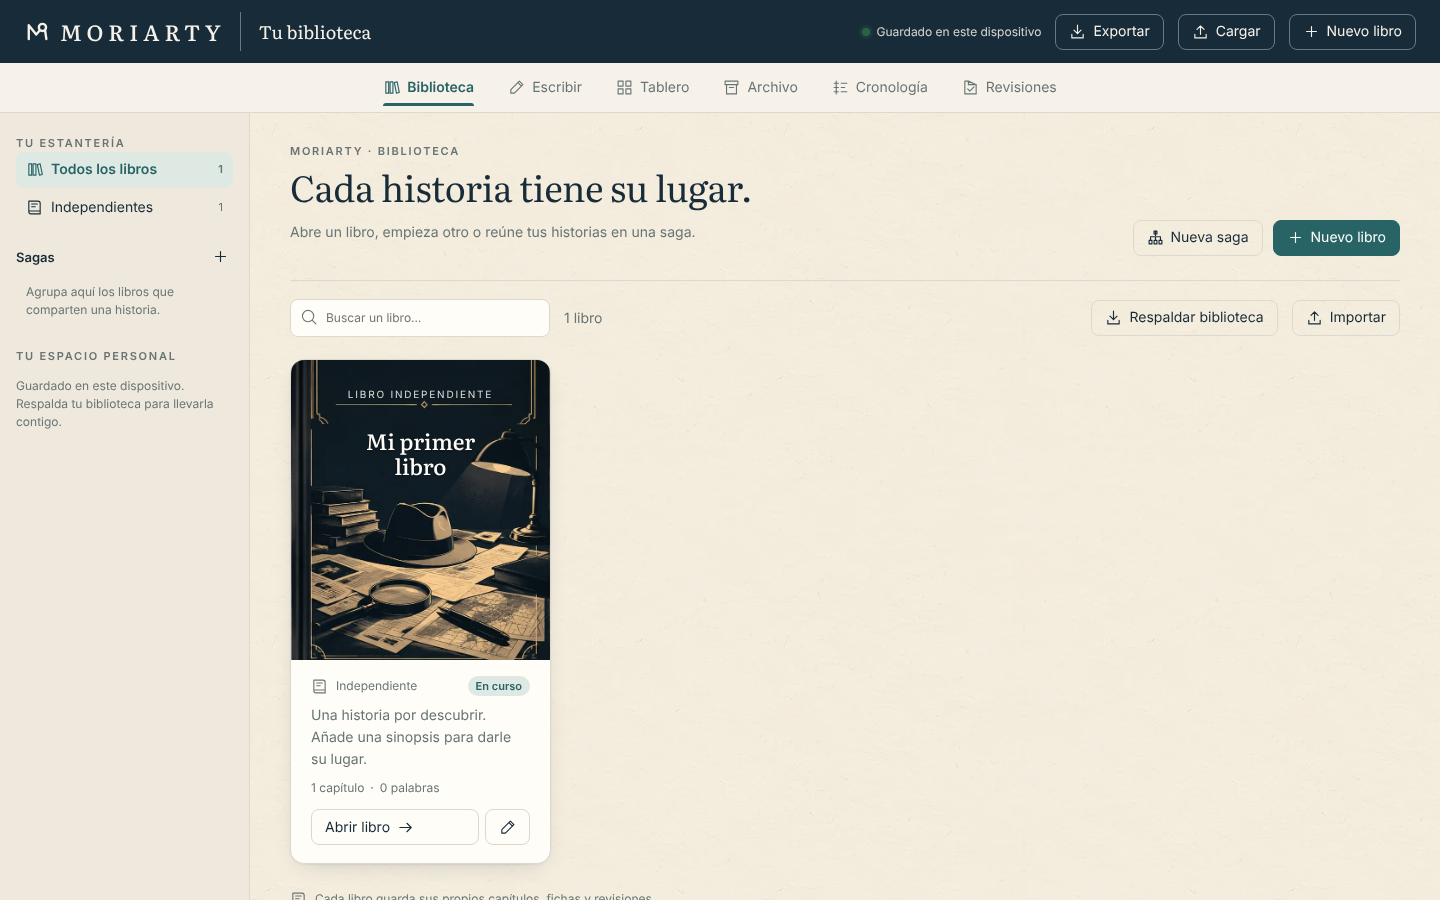
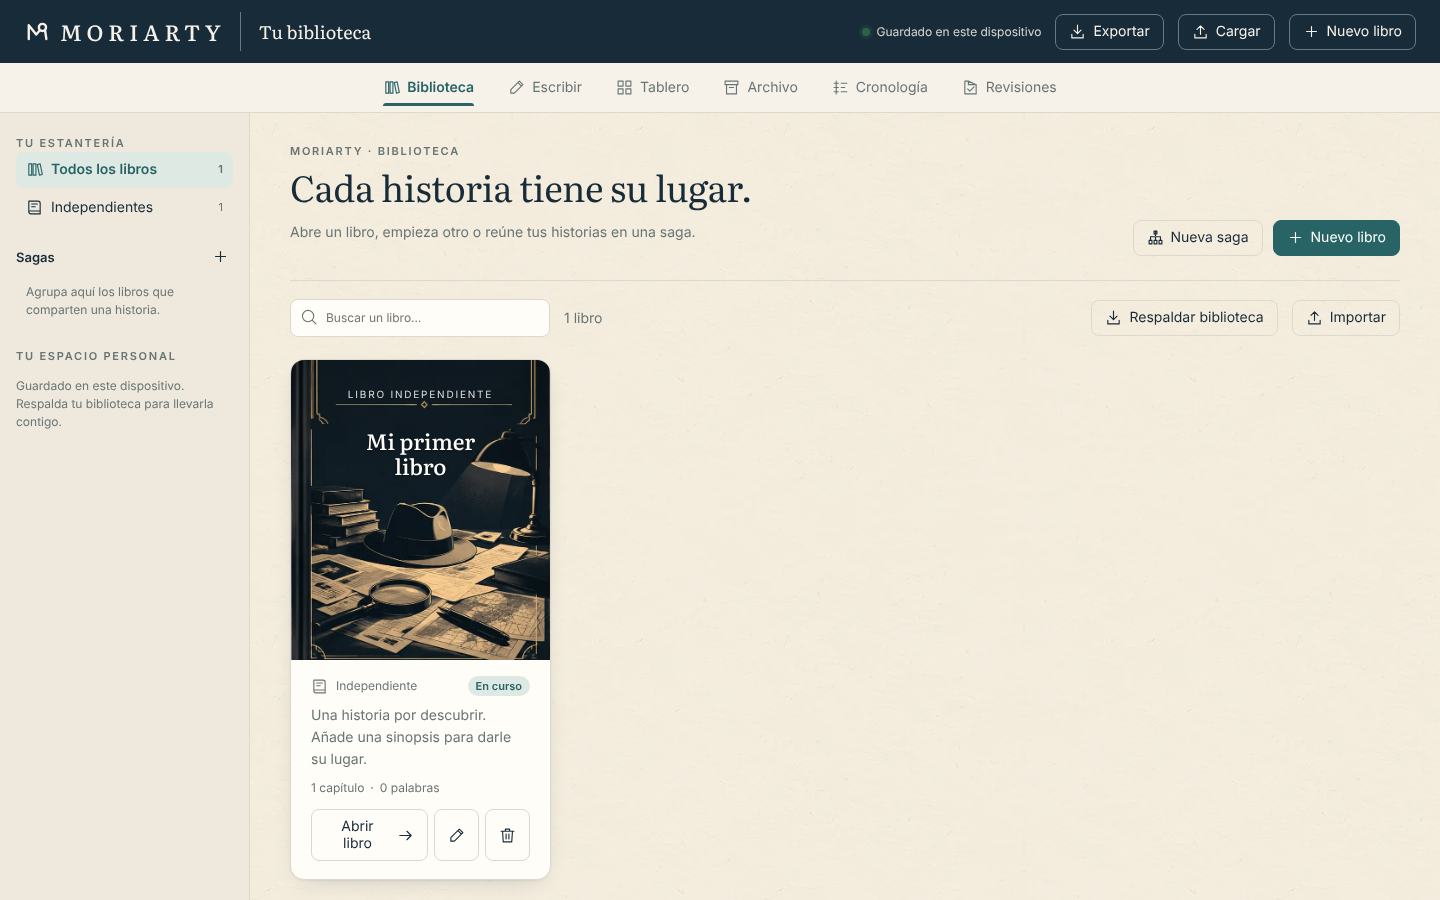
Biblioteca: papelera de libros (recuperar y eliminar definitivamente con confirmación)
Claude-Session: https://claude.ai/code/session_019irDhg9R3vBrL3R1LDZwQ2

Changed region(s): [[0.1875, 0.9022, 0.4688, 1.0]]

diff --git a/dist/library-view.js b/dist/library-view.js
@@ -1,4 +1,4 @@
-import {addBook, addSaga, moveBook} from './library.js';
+import {addBook, addSaga, moveBook, trashBook, restoreBook, purgeBook, liveBooks} from './library.js';
 import {icon, art, COVERS} from './icons.js';
 const esc = (x) =>
   String(x).replace(
@@ -24,12 +24,15 @@ export class LibraryView {
   }
   render() {
     const lib = this.getLibrary();
-    if (!['all', 'independent'].includes(this.scope) && !lib.sagas.some((s) => s.id === this.scope))
+    const live = liveBooks(lib),
+      trashed = lib.books.filter((b) => b.trashed);
+    if (this.scope === 'trash' && !trashed.length) this.scope = 'all';
+    if (!['all', 'independent', 'trash'].includes(this.scope) && !lib.sagas.some((s) => s.id === this.scope))
       this.scope = 'all';
     const sidebar = document.querySelector('#sidebar');
     const scopeButton = (id, name, type, count) =>
       `<button data-scope="${esc(id)}" class="library-filter ${this.scope === id ? 'selected' : ''}">${icon(type)}<span>${esc(name)}</span><small>${count}</small></button>`;
-    sidebar.innerHTML = `<div class="eyebrow">TU ESTANTERÍA</div>${scopeButton('all', 'Todos los libros', 'library', lib.books.length)}${scopeButton('independent', 'Independientes', 'book', lib.books.filter((b) => !b.sagaId).length)}<div class="saga-heading"><h3>Sagas</h3><button id="sidebarNewSaga" aria-label="Crear saga" title="Crear saga">${icon('plus')}</button></div><div class="saga-filters">${lib.sagas.map((s) => scopeButton(s.id, s.title, 'saga', lib.books.filter((b) => b.sagaId === s.id).length)).join('') || '<p class="muted library-hint">Agrupa aquí los libros que comparten una historia.</p>'}</div><div class="library-storage"><span class="eyebrow">TU ESPACIO PERSONAL</span><p>Guardado en este dispositivo. Respalda tu biblioteca para llevarla contigo.</p></div>`;
+    sidebar.innerHTML = `<div class="eyebrow">TU ESTANTERÍA</div>${scopeButton('all', 'Todos los libros', 'library', live.length)}${scopeButton('independent', 'Independientes', 'book', live.filter((b) => !b.sagaId).length)}<div class="saga-heading"><h3>Sagas</h3><button id="sidebarNewSaga" aria-label="Crear saga" title="Crear saga">${icon('plus')}</button></div><div class="saga-filters">${lib.sagas.map((s) => scopeButton(s.id, s.title, 'saga', live.filter((b) => b.sagaId === s.id).length)).join('') || '<p class="muted library-hint">Agrupa aquí los libros que comparten una historia.</p>'}</div>${trashed.length ? `<div class="saga-heading"><h3>Papelera</h3></div>${scopeButton('trash', 'Libros en papelera', 'trash', trashed.length)}` : ''}<div class="library-storage"><span class="eyebrow">TU ESPACIO PERSONAL</span><p>Guardado en este dispositivo. Respalda tu biblioteca para llevarla contigo.</p></div>`;
     sidebar.querySelectorAll('[data-scope]').forEach(
       (btn) =>
         (btn.onclick = () => {
@@ -42,10 +45,12 @@ export class LibraryView {
     const saga = lib.sagas.find((s) => s.id === this.scope);
     const heading =
       saga?.title ||
-      (this.scope === 'independent' ? 'Historias con su propio mundo.' : 'Cada historia tiene su lugar.');
+      (this.scope === 'trash' ? 'Papelera de libros.' : this.scope === 'independent' ? 'Historias con su propio mundo.' : 'Cada historia tiene su lugar.');
     const description =
       saga?.description ||
-      (this.scope === 'independent'
+      (this.scope === 'trash'
+        ? 'Nada aquí se ha borrado. Recupera un libro o elimínalo definitivamente.'
+        : this.scope === 'independent'
         ? 'Tus libros independientes, listos para seguir creciendo.'
         : 'Abre un libro, empieza otro o reúne tus historias en una saga.');
     document.querySelector('#main').innerHTML =
@@ -65,8 +70,12 @@ export class LibraryView {
   }
   cards() {
     const lib = this.getLibrary();
-    const scoped = lib.books.filter(
-      (b) => this.scope === 'all' || (this.scope === 'independent' ? !b.sagaId : b.sagaId === this.scope),
+    const inTrash = this.scope === 'trash';
+    const scoped = lib.books.filter((b) =>
+      inTrash
+        ? b.trashed
+        : !b.trashed &&
+          (this.scope === 'all' || (this.scope === 'independent' ? !b.sagaId : b.sagaId === this.scope)),
     );
     const query = this.query.trim().toLocaleLowerCase();
     const books = scoped.filter((b) =>
@@ -78,15 +87,15 @@ export class LibraryView {
       books
         .map((b) => {
           const saga = lib.sagas.find((s) => s.id === b.sagaId),
-            siblings = lib.books.filter((x) => x.sagaId === b.sagaId),
+            siblings = lib.books.filter((x) => x.sagaId === b.sagaId && !x.trashed),
             index = siblings.indexOf(b),
             id = esc(b.project.id);
           const color = (saga ? lib.sagas.indexOf(saga) : lib.books.indexOf(b)) % 3;
           const coverUrl = b.project.cover || `img/${COVERS[color]}.webp`;
-          return `<article class="book-card" data-book="${id}"><button data-open-book="${id}" aria-label="Abrir ${esc(b.project.title)}" style="background-image:url(${coverUrl})" class="book-cover ${b.project.cover ? 'cover-custom' : 'cover-default'}"><span class="cover-kicker">${saga ? esc(saga.title) : 'LIBRO INDEPENDIENTE'}</span><span></span><span class="cover-title">${esc(b.project.title) || 'Libro sin título'}</span><span class="cover-bottom">${saga ? `VOLUMEN ${String(index + 1).padStart(2, '0')}` : 'MORIARTY'}</span></button><div class="book-info"><div class="book-meta">${saga ? `${icon('saga')}<span>${esc(saga.title)} · ${index + 1}</span>` : `${icon('book')}<span>Independiente</span>`}${lib.activeBookId === b.project.id ? '<span class="current-book">En curso</span>' : ''}</div><p class="book-synopsis ${b.synopsis ? '' : 'muted'}">${esc(b.synopsis) || 'Una historia por descubrir. Añade una sinopsis para darle su lugar.'}</p><div class="book-stats">${plural(b.project.chapters.filter((c) => !c.trashed).length, 'capítulo', 'capítulos')}<span>·</span>${words(b.project).toLocaleString('es-MX')} palabras</div><div class="book-actions"><button class="open-book" data-open-book="${id}">Abrir libro ${icon('arrow')}</button><button data-edit-book="${id}" aria-label="Editar ${esc(b.project.title)}" title="Editar libro">${icon('edit')}</button>${saga ? `<button data-book-move="${id}" data-delta="-1" ${index === 0 ? 'disabled' : ''} aria-label="Adelantar ${esc(b.project.title)} en la saga" title="Adelantar en saga">${icon('up')}</button><button data-book-move="${id}" data-delta="1" ${index === siblings.length - 1 ? 'disabled' : ''} aria-label="Retrasar ${esc(b.project.title)} en la saga" title="Retrasar en saga">${icon('down')}</button>` : ''}</div></div></article>`;
+          return `<article class="book-card" data-book="${id}"><button data-open-book="${id}" aria-label="Abrir ${esc(b.project.title)}" style="background-image:url(${coverUrl})" class="book-cover ${b.project.cover ? 'cover-custom' : 'cover-default'}"><span class="cover-kicker">${saga ? esc(saga.title) : 'LIBRO INDEPENDIENTE'}</span><span></span><span class="cover-title">${esc(b.project.title) || 'Libro sin título'}</span><span class="cover-bottom">${saga ? `VOLUMEN ${String(index + 1).padStart(2, '0')}` : 'MORIARTY'}</span></button><div class="book-info"><div class="book-meta">${saga ? `${icon('saga')}<span>${esc(saga.title)} · ${index + 1}</span>` : `${icon('book')}<span>Independiente</span>`}${lib.activeBookId === b.project.id ? '<span class="current-book">En curso</span>' : ''}</div><p class="book-synopsis ${b.synopsis ? '' : 'muted'}">${esc(b.synopsis) || 'Una historia por descubrir. Añade una sinopsis para darle su lugar.'}</p><div class="book-stats">${plural(b.project.chapters.filter((c) => !c.trashed).length, 'capítulo', 'capítulos')}<span>·</span>${words(b.project).toLocaleString('es-MX')} palabras</div><div class="book-actions">${inTrash ? `<button class="open-book" data-restore-book="${id}">${icon('restore')}Recuperar</button><button data-purge-book="${id}" class="danger-text" aria-label="Eliminar definitivamente ${esc(b.project.title)}" title="Eliminar definitivamente">${icon('trash')}</button>` : `<button class="open-book" data-open-book="${id}">Abrir libro ${icon('arrow')}</button><button data-edit-book="${id}" aria-label="Editar ${esc(b.project.title)}" title="Editar libro">${icon('edit')}</button><button data-trash-book="${id}" aria-label="Enviar ${esc(b.project.title)} a la papelera" title="Enviar a la papelera">${icon('trash')}</button>`}${saga && !inTrash ? `<button data-book-move="${id}" data-delta="-1" ${index === 0 ? 'disabled' : ''} aria-label="Adelantar ${esc(b.project.title)} en la saga" title="Adelantar en saga">${icon('up')}</button><button data-book-move="${id}" data-delta="1" ${index === siblings.length - 1 ? 'disabled' : ''} aria-label="Retrasar ${esc(b.project.title)} en la saga" title="Retrasar en saga">${icon('down')}</button>` : ''}</div></div></article>`;
         })
         .join('') ||
-      `<div class="library-empty">${art(query ? 'vacio-busqueda' : 'vacio-biblioteca')}<h2>${query ? 'No encontramos ese libro.' : 'Aquí empieza una nueva historia.'}</h2><p class="muted">${query ? 'Prueba con otro título o una palabra de la sinopsis.' : 'Crea el primer libro de esta colección o importa uno que ya tengas.'}</p>${query ? '' : '<button class="primary" id="emptyNewBook">' + icon('plus') + 'Crear un libro</button>'}</div>`;
+      `<div class="library-empty">${art(query ? 'vacio-busqueda' : 'vacio-biblioteca')}<h2>${query ? 'No encontramos ese libro.' : 'Aquí empieza una nueva historia.'}</h2><p class="muted">${query ? 'Prueba con otro título o una palabra de la sinopsis.' : 'Crea el primer libro de esta colección o importa uno que ya tengas.'}</p>${query || inTrash ? '' : '<button class="primary" id="emptyNewBook">' + icon('plus') + 'Crear un libro</button>'}</div>`;
     grid
       .querySelectorAll('[data-open-book]')
       .forEach((btn) => (btn.onclick = () => this.callbacks.onOpen(btn.dataset.openBook)));
@@ -103,6 +112,42 @@ export class LibraryView {
           this.callbacks.onChange();
           this.cards();
           grid.querySelector(`[data-book="${btn.dataset.bookMove}"] [data-edit-book]`)?.focus();
+        }),
+    );
+    grid.querySelectorAll('[data-trash-book]').forEach(
+      (btn) =>
+        (btn.onclick = () => {
+          const book = trashBook(lib, btn.dataset.trashBook);
+          this.callbacks.onChange();
+          this.render();
+          this.callbacks.notify?.(`«${book.project.title}» está en la papelera de libros. Puedes recuperarlo cuando quieras.`);
+        }),
+    );
+    grid.querySelectorAll('[data-restore-book]').forEach(
+      (btn) =>
+        (btn.onclick = () => {
+          const book = restoreBook(lib, btn.dataset.restoreBook);
+          this.callbacks.onChange();
+          this.render();
+          this.callbacks.notify?.(`«${book.project.title}» volvió a tu biblioteca.`);
+        }),
+    );
+    grid.querySelectorAll('[data-purge-book]').forEach(
+      (btn) =>
+        (btn.onclick = () => {
+          const book = lib.books.find((b) => b.project.id === btn.dataset.purgeBook);
+          this.dialog(
+            'Eliminar definitivamente',
+            `<p>Vas a borrar <b>${esc(book.project.title)}</b> con todos sus capítulos, fichas, versiones y revisiones. <b>No se puede deshacer.</b></p><p class="muted">Si quieres conservar una copia, cancela y usa Exportar → Respaldar biblioteca antes.</p><label>Escribe el título del libro para confirmar<input class="field" name="confirm" autocomplete="off" required></label>`,
+            'Eliminar para siempre',
+            (data) => {
+              if (data.get('confirm').trim() !== book.project.title.trim()) throw Error('El título no coincide.');
+              purgeBook(lib, book.project.id);
+              this.callbacks.onChange();
+              this.render();
+              this.callbacks.notify?.('Libro eliminado definitivamente.');
+            },
+          );
         }),
     );
     const empty = grid.querySelector('#emptyNewBook');

diff --git a/dist/library.js b/dist/library.js
@@ -44,7 +44,8 @@ export function validateLibrary(data) {
       !b ||
       typeof b.synopsis !== 'string' ||
       typeof b.sagaId !== 'string' ||
-      (b.sagaId && !sagas.has(b.sagaId))
+      (b.sagaId && !sagas.has(b.sagaId)) ||
+      (b.trashed !== undefined && typeof b.trashed !== 'boolean')
     )
       fail();
     validate(b.project);
@@ -81,7 +82,7 @@ export function addSaga(library, title, description = '') {
 export function moveBook(library, id, delta) {
   const book = library.books.find((b) => b.project.id === id);
   if (!book || ![1, -1].includes(delta)) return;
-  const group = library.books.filter((b) => b.sagaId === book.sagaId);
+  const group = library.books.filter((b) => b.sagaId === book.sagaId && !b.trashed);
   const target = group[group.indexOf(book) + delta];
   if (!target) return;
   const i = library.books.indexOf(book),
@@ -132,10 +133,40 @@ export function importIntoLibrary(library, data) {
     project: cloneProject(b.project),
     sagaId: sagas.get(b.sagaId) || '',
     synopsis: b.synopsis,
+    trashed: false,
   }));
   next.books.push(...imported);
   next.activeBookId = imported.find(
     (b, i) => incoming.books[i].project.id === incoming.activeBookId,
   ).project.id;
   return validateLibrary(next);
+}
+
+// ---- Papelera de libros (no destructiva hasta "Eliminar definitivamente") ----
+export const liveBooks = (library) => library.books.filter((b) => !b.trashed);
+function ensureActive(library) {
+  const active = activeBook(library);
+  if (active && !active.trashed) return;
+  const next = liveBooks(library)[0] || addBook(library, 'Mi nuevo libro');
+  library.activeBookId = next.project.id;
+}
+export function trashBook(library, id) {
+  const book = library.books.find((b) => b.project.id === id);
+  if (!book) throw Error('El libro no existe.');
+  book.trashed = true;
+  ensureActive(library);
+  return book;
+}
+export function restoreBook(library, id) {
+  const book = library.books.find((b) => b.project.id === id);
+  if (!book) throw Error('El libro no existe.');
+  book.trashed = false;
+  return book;
+}
+export function purgeBook(library, id) {
+  const i = library.books.findIndex((b) => b.project.id === id);
+  if (i < 0) throw Error('El libro no existe.');
+  if (!library.books[i].trashed) throw Error('Primero envía el libro a la papelera.');
+  library.books.splice(i, 1);
+  ensureActive(library);
 }

diff --git a/dist/app.js b/dist/app.js
@@ -78,6 +78,7 @@ const libraryView = new LibraryView(() => library, {
   onBackup: backupLibrary,
   onImport: () => $('#file').click(),
   pickCover: () => pickImage($('#imageFile'), {max: 900, quality: 0.8}),
+  notify: (t) => notify(t),
 });
 
 function openBook(id) {
@@ -182,7 +183,7 @@ document.addEventListener('visibilitychange', () => document.hidden && saveNow.t
 function count() {
   if (view === 'library') {
     $('#words').textContent =
-      `${library.books.length} ${library.books.length === 1 ? 'libro' : 'libros'} · ${library.sagas.length} ${library.sagas.length === 1 ? 'saga' : 'sagas'}`;
+      `${library.books.filter((b) => !b.trashed).length} ${library.books.filter((b) => !b.trashed).length === 1 ? 'libro' : 'libros'} · ${library.sagas.length} ${library.sagas.length === 1 ? 'saga' : 'sagas'}`;
     return;
   }
   $('#words').textContent =

diff --git a/dist/sw.js b/dist/sw.js
@@ -1,5 +1,5 @@
 // MORIARTY V0.3 — caché para uso sin conexión. Cambiar CACHE al publicar una versión nueva.
-const CACHE = 'moriarty-v03-3';
+const CACHE = 'moriarty-v03-4';
 const FILES = [
   './',
   './index.html',
